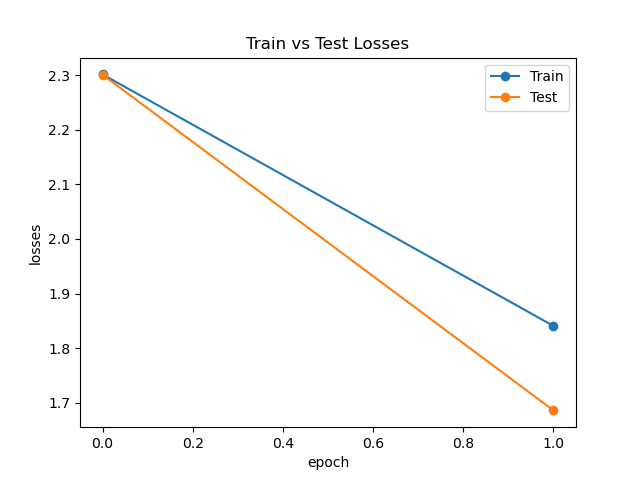
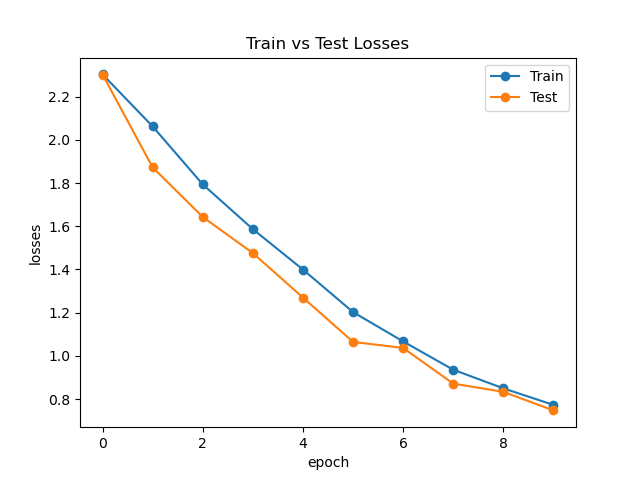
Learning rates changed

diff --git a/optimizer.py b/optimizer.py
@@ -70,7 +70,7 @@ def optim(model_name, model, lr):
     """
     if model_name == 'resnet':
         optimizer = torch.optim.SGD(model.parameters(), lr=lr, weight_decay=0.0001, momentum=0.9)
-        scheduler = CyclicLR(optimizer, base_lr=1e-06, max_lr=0.1, step_size_up=100, mode='triangular2') #CosineAnnealingLR(optimizer, T_max=200)
+        scheduler = CyclicLR(optimizer, base_lr=1e-06, max_lr=0.1, step_size_up=50, mode='triangular2') #CosineAnnealingLR(optimizer, T_max=200)
         return optimizer, scheduler
     if model_name == 'alexnet':
         optimizer = torch.optim.SGD(model.parameters(), lr=lr, weight_decay=0.0005, momentum=0.9)

diff --git a/augmentations.py b/augmentations.py
@@ -1,4 +1,3 @@
-import torchvision
 import torchvision.transforms as transforms
 
 def augmentation(image_resolution):
@@ -20,8 +19,9 @@ def ContrastiveAugmentation(image_resolution):
     transforms.RandomResizedCrop(size=(image_resolution, image_resolution)),
     transforms.RandomHorizontalFlip(p=0.5),
     transforms.RandomApply([color_jitter], p=0.8),
-    transforms.RandomApply([blur], p=0.5),
+    #transforms.RandomApply([blur], p=0.5),
     transforms.RandomGrayscale(p=0.2),
     transforms.Normalize(mean=[0.485, 0.456, 0.406], std=[0.229, 0.224, 0.225])])
         
     return transform
+
